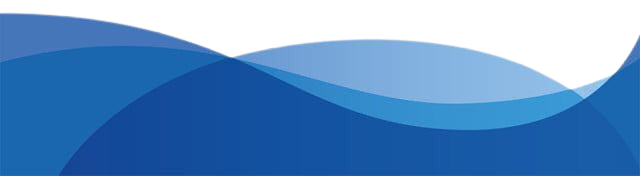
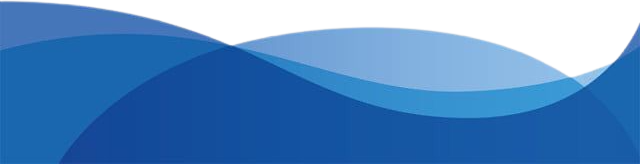
Updatean

Changed region(s): [[0.0, 0.0, 1.0, 0.7622], [0.1875, 0.3659, 0.3125, 0.6098], [0.1562, 0.6098, 0.1875, 0.6707]]

diff --git a/public/css/user.css b/public/css/user.css
@@ -85,17 +85,20 @@ nav.menu li .icon { width: 40px; }
 .gember {
     position: fixed;
     left: 0px;right: 0px;
+    width: 100%;
     height: 100px;
     opacity: 0.6;
-    background-size: 100% 100%;
+    background-size: cover;
 }
 .gember.top {
-    top: 80px;
-    background: url(../images/top.png) no-repeat center right;
+    top: 30px;
+    height: 200px;
+    background: url(../images/top.png) no-repeat;
+    background-position: center right;
 }
 .gember.bottom {
     bottom: 0px;
-    background: url(../images/bottom.png) no-repeat center right;
+    background: url(../images/bottom.png);
 }
 
 @media (max-width: 480px) {
